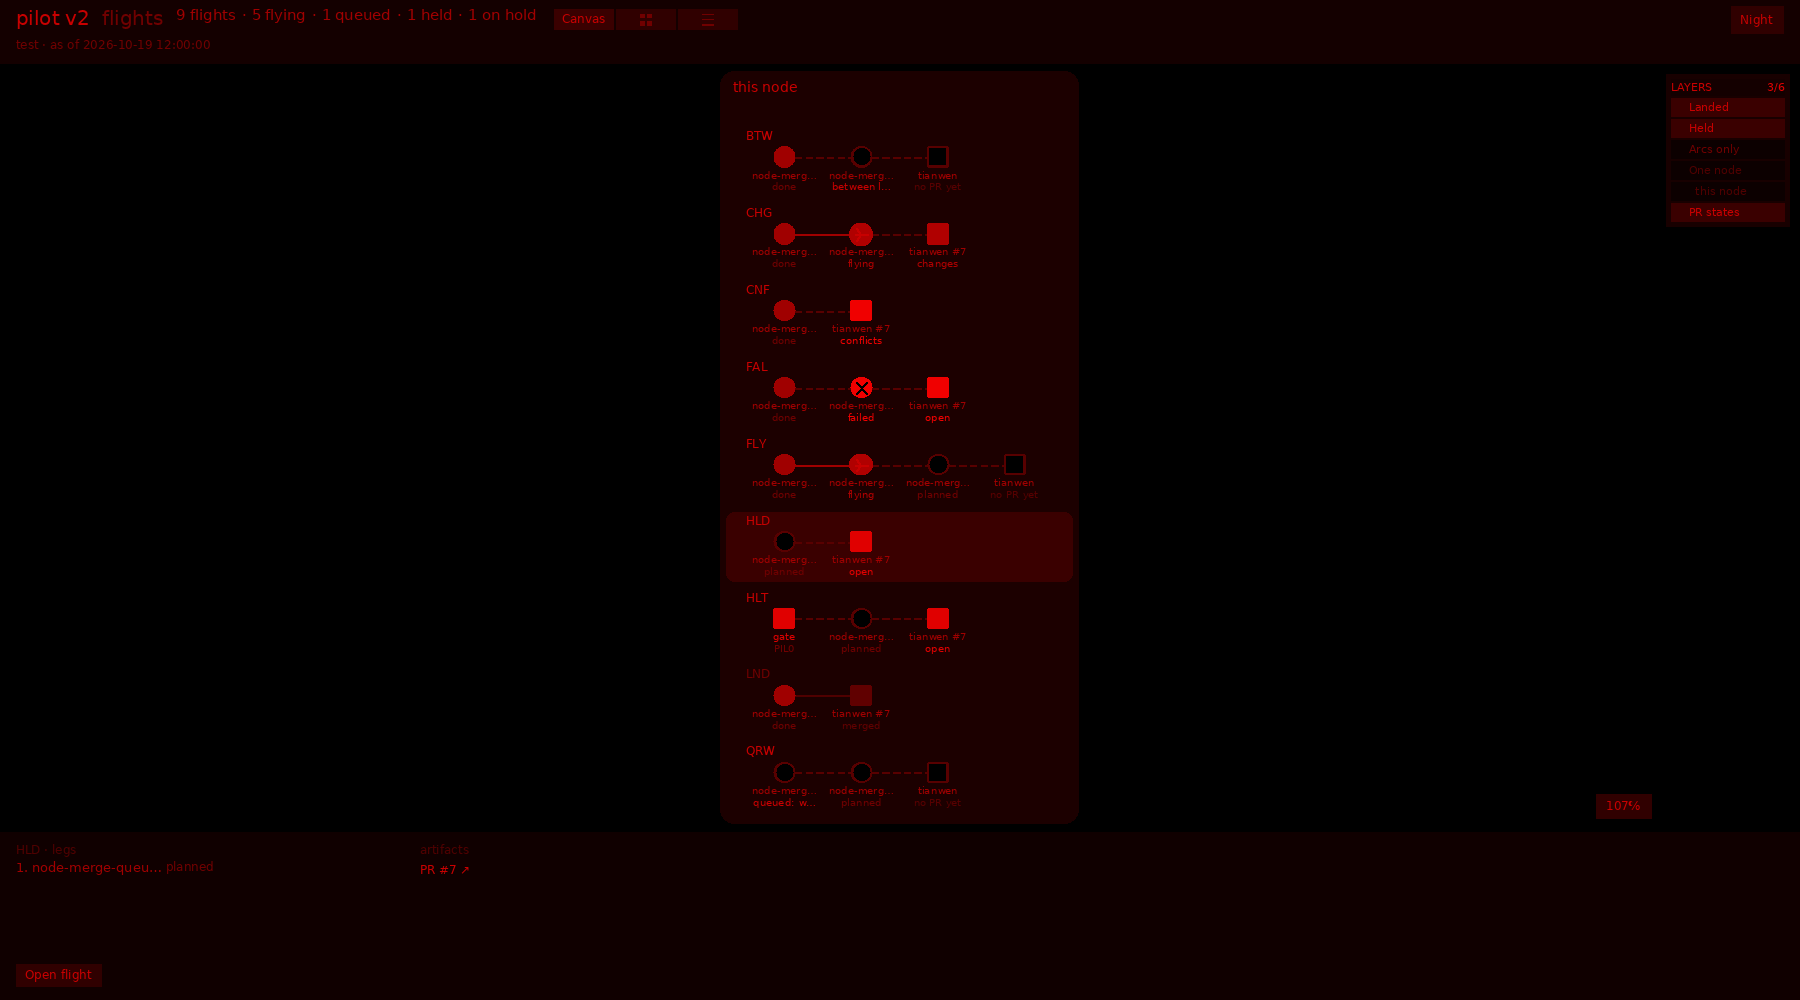
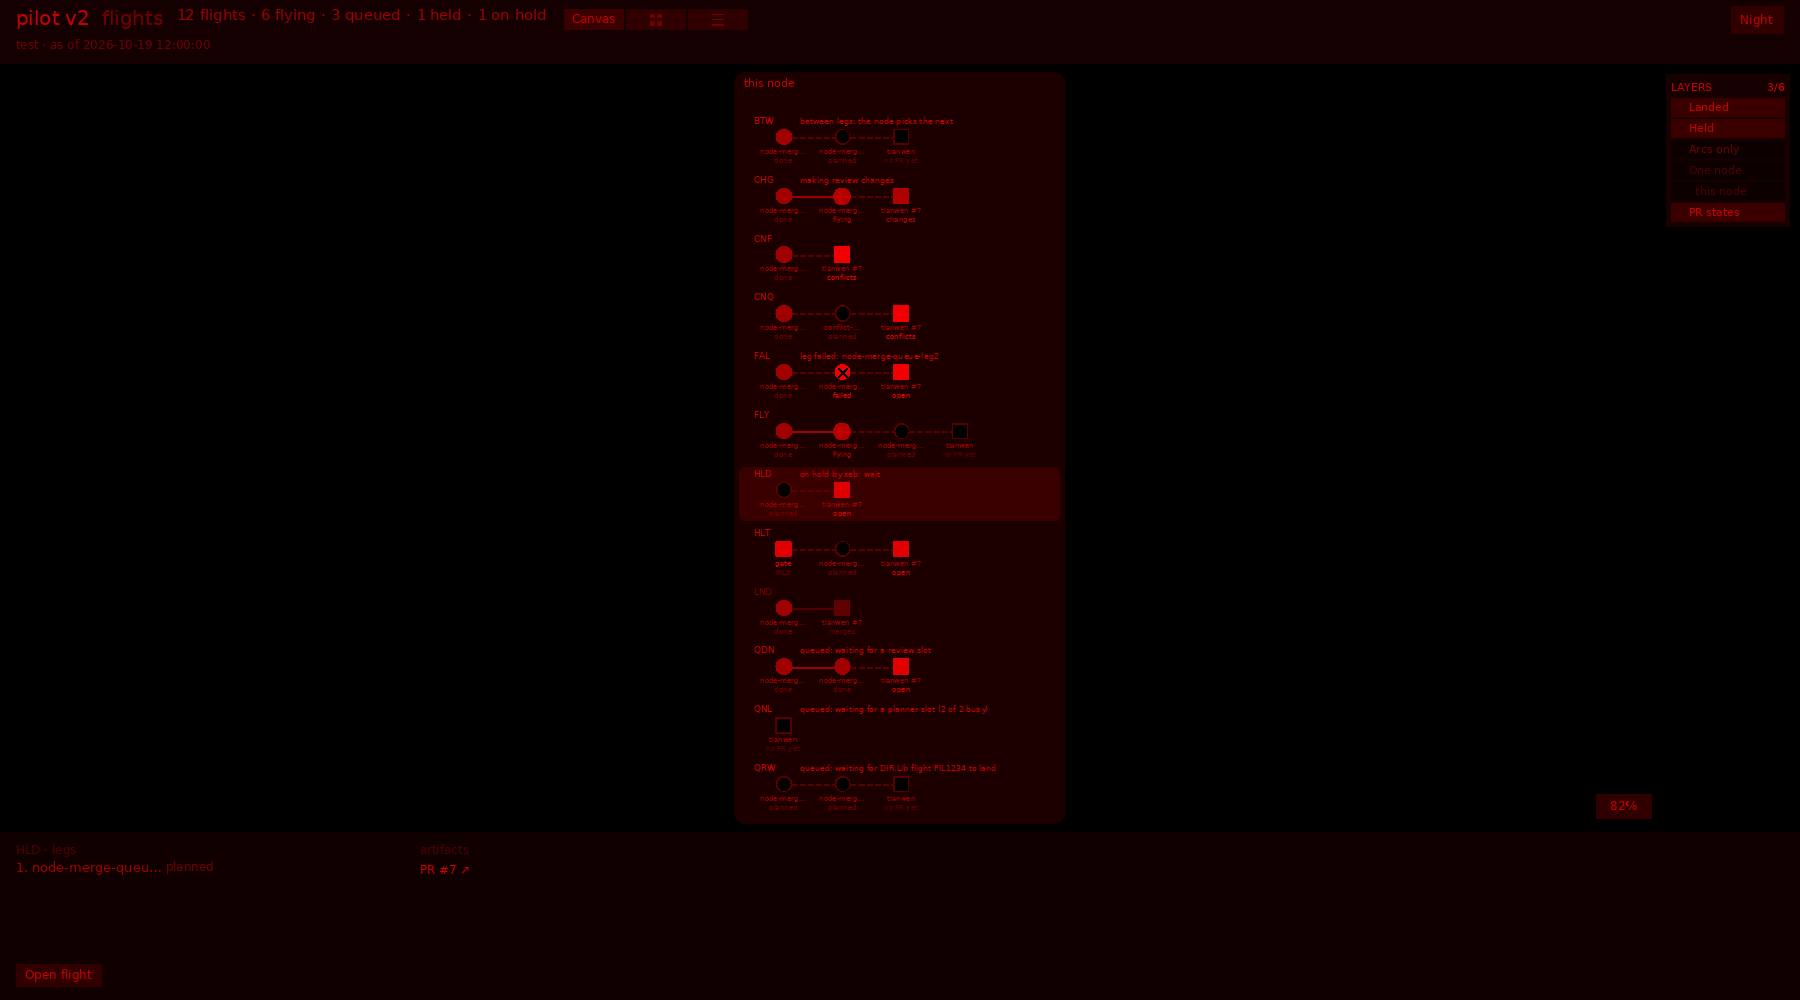
PIL1298: A destination's colour is its PR's own state, so it agrees with its word (a failed leg is red on its airport, open stays amber)
Claude-Session: https://claude.ai/code/session_01RYDPKN4yJWHHohufkTTx3e

Changed region(s): [[0.3733, 0.062, 0.6222, 0.837], [0.0933, 0.0, 0.3733, 0.031], [0.4044, 0.0, 0.4356, 0.031]]

diff --git a/src/Pilot.Gui.Tests/FlightMapStateTests.cs b/src/Pilot.Gui.Tests/FlightMapStateTests.cs
@@ -69,7 +69,7 @@ public sealed class FlightMapStateTests
         return name switch
         {
             "conflicts" => (FlightMapWorld.Flight("A", review: FlightMapWorld.Review(ReviewState.Passed, "pilot: conflicts")), done, "Failed", "conflicts"),
-            "failed-leg" => (FlightMapWorld.Flight("A"), [FlightMapWorld.Leg("A", LegState.Done), FlightMapWorld.Leg("A", LegState.Failed, 2)], "Failed", "open"),
+            "failed-leg" => (FlightMapWorld.Flight("A"), [FlightMapWorld.Leg("A", LegState.Done), FlightMapWorld.Leg("A", LegState.Failed, 2)], "Held", "open"),
             "changes" => (FlightMapWorld.Flight("A", review: FlightMapWorld.Review(ReviewState.Changes)), [FlightMapWorld.Leg("A", LegState.Done), FlightMapWorld.Leg("A", LegState.Flying, 2)], "Flying", "changes"),
             "passed" => (FlightMapWorld.Flight("A", review: FlightMapWorld.Review(ReviewState.Passed)), done, "Flying", "passed"),
             "armed" => (FlightMapWorld.Flight("A", review: FlightMapWorld.Review(ReviewState.Passed)) with { MergeWhenGreen = ["abc", "squash"] }, done, "Held", "armed"),
@@ -92,7 +92,8 @@ public sealed class FlightMapStateTests
         var colour = CentreOf(renderer.Surface, Hit(view, "flight:A:pr", "flight:A:pr-chip", "map:A:destination"));
         var expected = tone switch { "Failed" => p.Failed, "Flying" => p.Flying, "Held" => p.Held, _ => p.Landed };
         Same(colour, expected).ShouldBeTrue($"{name}: destination {colour} should be {tone} {expected}");
-        // Red (the palette's Failed) is for a conflict and a failed leg only; colour never carries the state alone.
+        // Red (the palette's Failed) is for a conflict only (a failed leg is red on its airport, not on the PR); colour never carries
+        // the state alone.
         if (tone != "Failed" && !Same(p.Failed, p.Held) && !Same(p.Failed, p.Flying))
         {
             Same(colour, p.Failed).ShouldBeFalse($"{name} is not red");

diff --git a/src/Pilot.Ui/FlightsView.MapSigns.cs b/src/Pilot.Ui/FlightsView.MapSigns.cs
@@ -34,15 +34,15 @@ internal sealed partial class FlightsView<TSurface>
     internal enum MapTone { Failed, Progress, Waiting, Neutral, Landed }
 
     /// <summary>
-    /// The destination's tone from the PR's status and the flight's phase (design-language section 1). Failed only for a conflict or a
-    /// failed leg; a review asking for changes is work in progress, never red; Queued, Armed and the not-yet-reviewed are amber;
-    /// Passed is progress. Each status keeps its word (<see cref="StatusWord"/>), so colour never carries it alone.
+    /// The destination's tone from the PR's status alone (design-language section 1), so its colour and its word always agree. Failed
+    /// only for a conflict; a failed leg is red on its own airport and named in the row's note, its PR still reads open in amber; a
+    /// review asking for changes is work in progress, never red; Queued, Armed and the not-yet-reviewed are amber; Passed is progress.
+    /// Each status keeps its word (<see cref="StatusWord"/>), so colour never carries it alone.
     /// </summary>
-    internal static MapTone DestinationColour(DestinationStatus status, FlightPhase phase) => status switch
+    internal static MapTone DestinationColour(DestinationStatus status) => status switch
     {
         DestinationStatus.Merged => MapTone.Landed,
         DestinationStatus.Conflicts => MapTone.Failed,
-        _ when phase == FlightPhase.Failed => MapTone.Failed,
         DestinationStatus.NoPr => MapTone.Neutral,
         DestinationStatus.Changes or DestinationStatus.Passed or DestinationStatus.RebaseOnly => MapTone.Progress,
         _ => MapTone.Waiting,

diff --git a/src/Pilot.Ui/FlightsView.Map.cs b/src/Pilot.Ui/FlightsView.Map.cs
@@ -743,7 +743,7 @@ internal sealed partial class FlightsView<TSurface>
         var color = !MapLayers.ShowPrStates ? P.RouteAhead : d.Status switch
         {
             DestinationStatus.Merged => Landed,
-            _ => DestinationColour(d.Status, route.Phase) switch
+            _ => DestinationColour(d.Status) switch
             {
                 MapTone.Failed => Failed,
                 MapTone.Progress => Flying,
